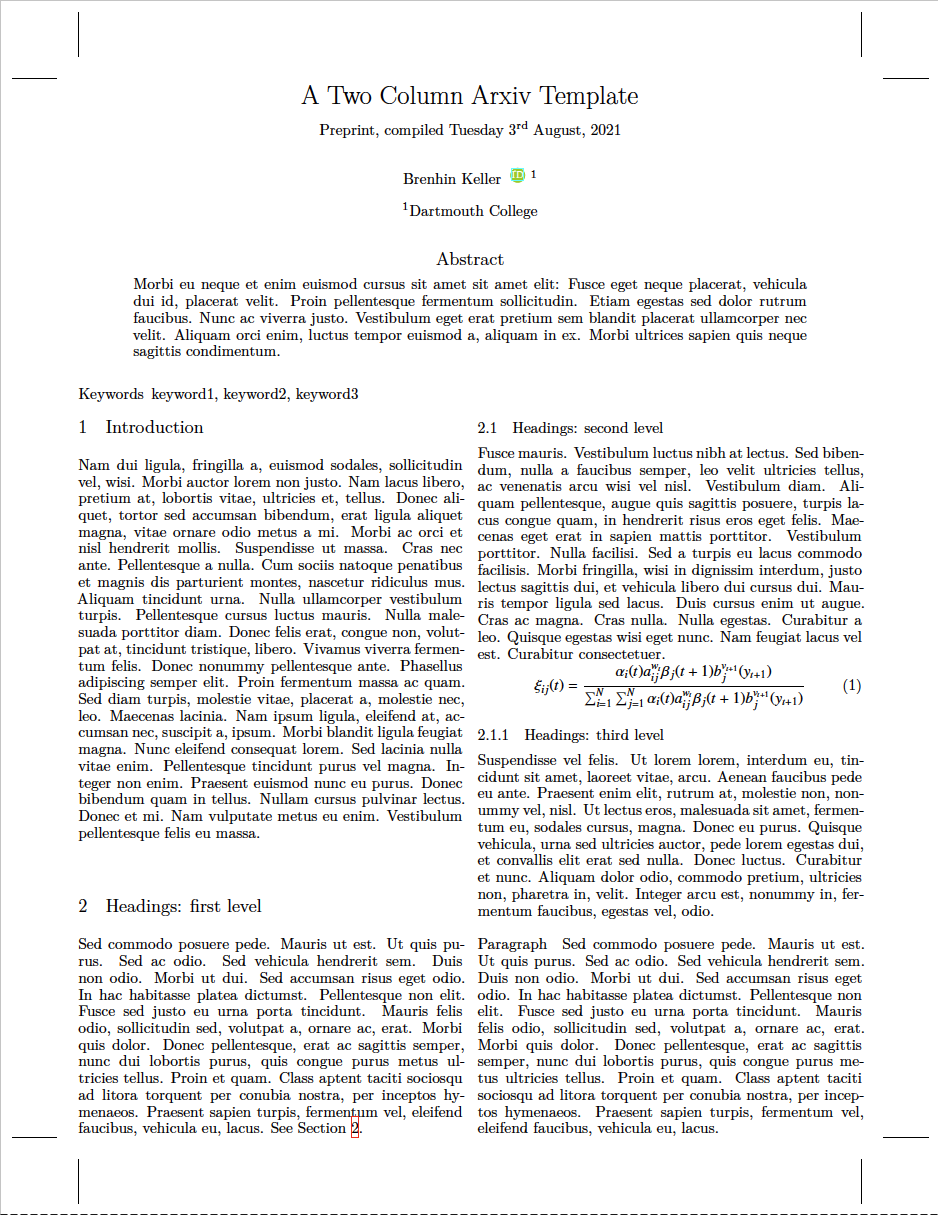
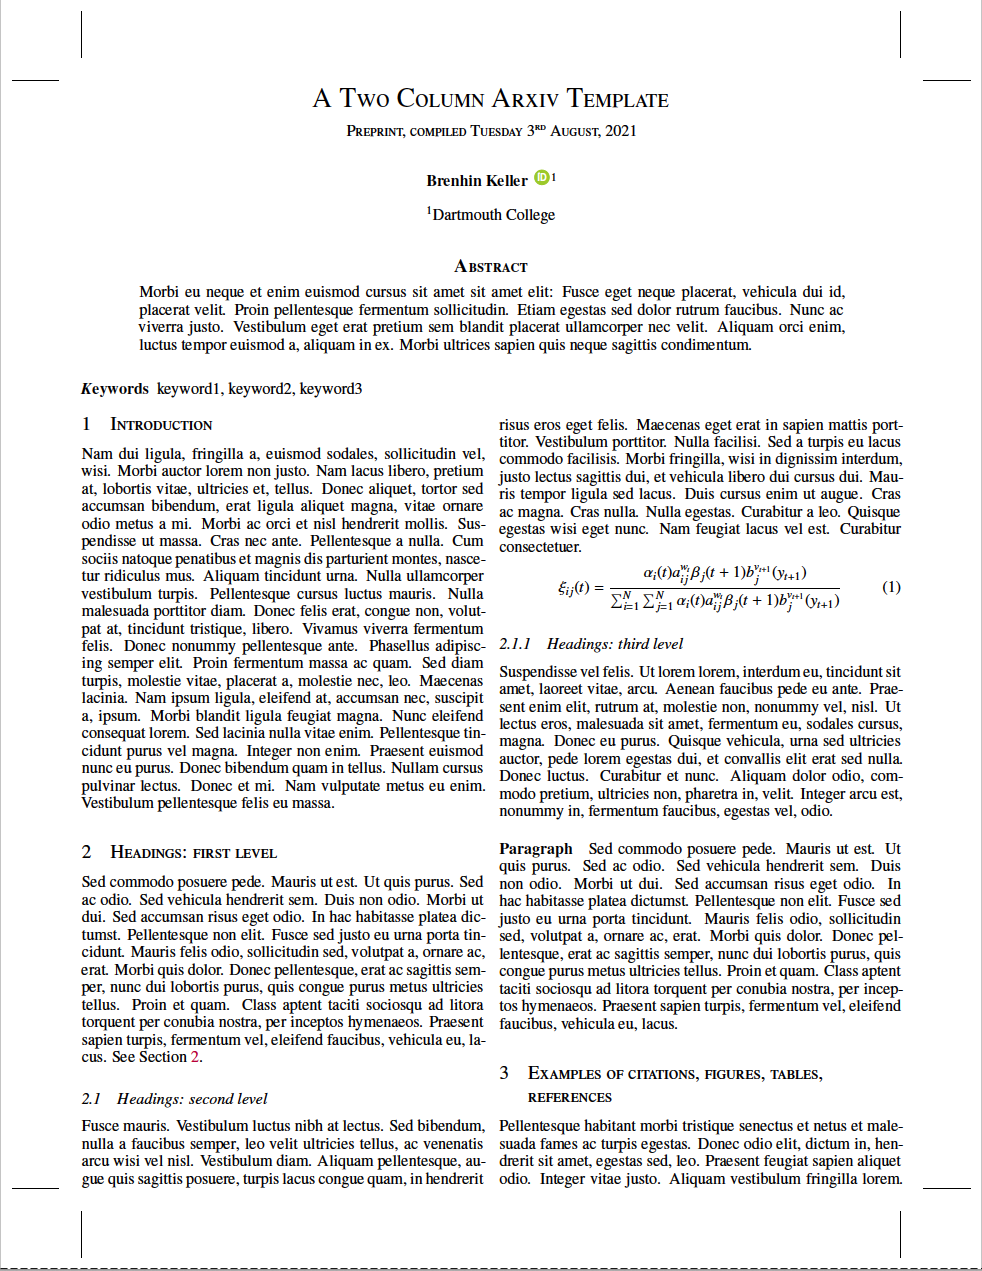
fixed optons, removed last error

diff --git a/latex/arxiv_two_column/template.tex b/latex/arxiv_two_column/template.tex
@@ -2,8 +2,8 @@
 \usepackage{preprint}
 [# if lipsum #]\usepackage{lipsum}[# endif #]
 
-\PassOptionsToPackage{natbib}{numbers,square}
-\PassOptionsToPackage{fontenc}{T1} % use 8-bit T1 fonts
+\PassOptionsToPackage{numbers,square}{natbib}
+\PassOptionsToPackage{T1}{fontenc} % use 8-bit T1 fonts
 
 \input{curvenote.def}
 
@@ -99,10 +99,10 @@ anchorcolor = black}
 [# endif #]
 
 [# if doc.tags #]
-\keywords{[-", ".join(doc.tags)-]}\\
+\keywords{[-", ".join(doc.tags)-]}
 [# endif #]
 
-\vspace{0.35cm}
+\vspace{0.5cm}
 
   \end{@twocolumnfalse} % Method A for two-column formatting
 ] % Method A for two-column formatting
